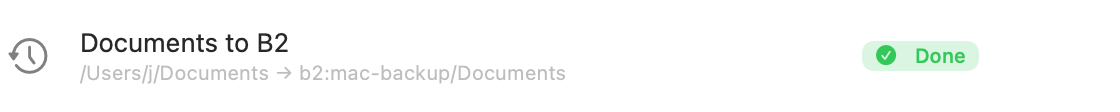
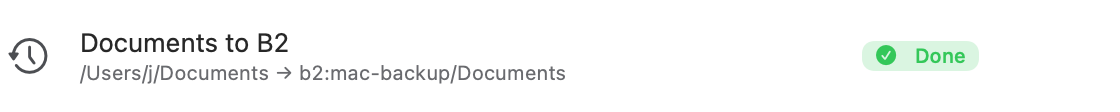
fix: readable text everywhere, a readable Settings tab bar, and main's CI (#133)
* fix: use the theme's text colours everywhere, not the system labels

The semantic text tokens were the system label colours, whose secondary
and tertiary levels (55% and 25% white in dark mode) are too faint on the
Stratosphere blue: 3.7:1 and 1.9:1. They now come from the palette (80%
and 72% white, and its dark tones in light mode), so every screen that
uses the tokens is readable: file lists, the inspector, transfer rows,
search results, status badges and the sheets.

* fix(settings): readable labels on buttons and menus

Buttons and menus in Settings drew their label in the app's tint, the
theme's action blue, on a blue surface: about 1.3:1. The Settings window
now tints them with the text colour. Switches keep the blue through a
settingsSwitch() helper, since a text-coloured tint would turn them
white on white.

* feat(settings): the app's own tab bar in the Settings window

The system Settings toolbar drew the selected tab's icon and label in
the accent blue on a blue highlight and took no tint. Settings now uses
the same glass segmented control as a cloud's page, and its background
runs behind the title bar instead of leaving a grey strip.

* test(settings): pin the sign-ins state in the Advanced snapshots

Five Settings-Advanced snapshot tests read this Mac's rclone config for
the saved sign-ins section, so they rendered differently on a CI runner
without one. The difference sat inside the tolerance until that text got
[…]

Changed region(s): [[0.0, 0.5625, 0.5, 0.75], [0.0, 0.3482, 0.0625, 0.5625]]

diff --git a/Nimbus/NimbusTests/AdvancedSettingsViewTests.swift b/Nimbus/NimbusTests/AdvancedSettingsViewTests.swift
@@ -16,11 +16,14 @@ struct AdvancedSettingsViewTests {
         )
 
         try SnapshotHelpers.assertHostedSnapshot(
-            AdvancedSettingsView(storageModel: GeneralSettingsModel(cacheUsage: .available(4_194_304)))
+            AdvancedSettingsView(
+                storageModel: GeneralSettingsModel(cacheUsage: .available(4_194_304)),
+                encryptionModel: Self.fixedSignIns
+            )
                 .environment(settings)
                 .environment(daemon)
                 .environment(\.diagnosticsService, diagnosticsService),
-            size: CGSize(width: 680, height: 820),
+            size: Self.fullHeight,
             named: "Settings-Advanced-connected"
         )
     }
@@ -35,12 +38,15 @@ struct AdvancedSettingsViewTests {
         )
 
         try SnapshotHelpers.assertHostedSnapshot(
-            AdvancedSettingsView(storageModel: GeneralSettingsModel(
-                cacheUsage: .failed("Nimbus couldn't read its Finder change records.")))
+            AdvancedSettingsView(
+                storageModel: GeneralSettingsModel(
+                    cacheUsage: .failed("Nimbus couldn't read its Finder change records.")),
+                encryptionModel: Self.fixedSignIns
+            )
                 .environment(settings)
                 .environment(daemon)
                 .environment(\.diagnosticsService, diagnosticsService),
-            size: CGSize(width: 680, height: 820),
+            size: Self.fullHeight,
             named: "Settings-Advanced-records-error"
         )
     }
@@ -55,11 +61,14 @@ struct AdvancedSettingsViewTests {
         )
 
         try SnapshotHelpers.assertHostedSnapshot(
-            AdvancedSettingsView(storageModel: GeneralSettingsModel(cacheUsage: .available(4_194_304)))
+            AdvancedSettingsView(
+                storageModel: GeneralSettingsModel(cacheUsage: .available(4_194_304)),
+                encryptionModel: Self.fixedSignIns
+            )
                 .environment(settings)
                 .environment(daemon)
                 .environment(\.diagnosticsService, diagnosticsService),
-            size: CGSize(width: 680, height: 820),
+            size: Self.fullHeight,
             named: "Settings-Advanced-restart-required"
         )
     }
@@ -74,11 +83,14 @@ struct AdvancedSettingsViewTests {
         )
 
         try SnapshotHelpers.assertHostedSnapshot(
-            AdvancedSettingsView(storageModel: GeneralSettingsModel(cacheUsage: .available(4_194_304)))
+            AdvancedSettingsView(
+                storageModel: GeneralSettingsModel(cacheUsage: .available(4_194_304)),
+                encryptionModel: Self.fixedSignIns
+            )
                 .environment(settings)
                 .environment(daemon)
                 .environment(\.diagnosticsService, diagnosticsService),
-            size: CGSize(width: 680, height: 820),
+            size: Self.fullHeight,
             named: "Settings-Advanced-disconnected"
         )
     }
@@ -93,11 +105,14 @@ struct AdvancedSettingsViewTests {
         )
 
         try SnapshotHelpers.assertHostedSnapshot(
-            AdvancedSettingsView(storageModel: GeneralSettingsModel(cacheUsage: .available(4_194_304)))
+            AdvancedSettingsView(
+                storageModel: GeneralSettingsModel(cacheUsage: .available(4_194_304)),
+                encryptionModel: Self.fixedSignIns
+            )
                 .environment(settings)
                 .environment(daemon)
                 .environment(\.diagnosticsService, diagnosticsService),
-            size: CGSize(width: 680, height: 820),
+            size: Self.fullHeight,
             named: "Settings-Advanced-error"
         )
     }
@@ -127,6 +142,21 @@ struct AdvancedSettingsViewTests {
             size: CGSize(width: 680, height: 1100),
             named: name
         )
+    }
+
+    /// Tall enough that the whole pane fits. When it doesn't, the pane
+    /// scrolls, and a Mac set to always show scroll bars (a CI runner has
+    /// no trackpad) draws one and re-wraps the text beside it, while a Mac
+    /// with overlay scroll bars doesn't. 820 fit until the descriptions
+    /// went from 10pt to 12pt.
+    private static let fullHeight = CGSize(width: 680, height: 1100)
+
+    /// The saved sign-ins section reads this Mac's rclone config unless it
+    /// is told not to. These snapshots aren't about that section, so pin
+    /// it: otherwise the render differs between a Mac with a config and a
+    /// CI runner without one.
+    private static var fixedSignIns: ConfigEncryptionModel {
+        ConfigEncryptionModel(state: .plain, readsLiveState: false)
     }
 
     private var diagnosticsService: DiagnosticsService {

diff --git a/Nimbus/Nimbus/Views/Settings/SettingsView.swift b/Nimbus/Nimbus/Views/Settings/SettingsView.swift
@@ -40,36 +40,67 @@ struct SettingsView: View {
         self.storageModel = storageModel
     }
 
+    /// The tabs on offer: Storage only when there is a model for it.
+    var tabs: [SettingsTab] {
+        SettingsTab.allCases.filter { $0 != .storage || storageModel != nil }
+    }
+
     var body: some View {
-        TabView(selection: $selectedTab) {
-            GeneralSettingsView()
-                .tag(SettingsTab.general)
-                .tabItem { Label(SettingsTab.general.title, systemImage: SettingsTab.general.systemImage) }
+        VStack(spacing: 0) {
+            // The app's own segmented control, not the system's Settings
+            // toolbar: that one draws the selected tab in the accent blue
+            // on a blue highlight, and takes no tint.
+            GlassSegmented(
+                options: tabs.map { .init(value: $0, title: $0.title, systemImage: $0.systemImage) },
+                selection: $selectedTab
+            )
+            .accessibilityElement(children: .contain)
+            .accessibilityLabel("Settings sections")
+            .padding(.top, DesignSystem.Spacing.s)
+            .padding(.bottom, DesignSystem.Spacing.m)
 
-            TransferSettingsView()
-                .tag(SettingsTab.transfers)
-                .tabItem { Label(SettingsTab.transfers.title, systemImage: SettingsTab.transfers.systemImage) }
-
-            if let storageModel {
-                StorageSettingsView(model: storageModel)
-                    .tag(SettingsTab.storage)
-                    .tabItem { Label(SettingsTab.storage.title, systemImage: SettingsTab.storage.systemImage) }
-            }
-
-            AdvancedSettingsView(storageModel: generalModel)
-                .tag(SettingsTab.advanced)
-                .tabItem { Label(SettingsTab.advanced.title, systemImage: SettingsTab.advanced.systemImage) }
-
-            AboutSettingsView()
-                .tag(SettingsTab.about)
-                .tabItem { Label(SettingsTab.about.title, systemImage: SettingsTab.about.systemImage) }
+            pane
+                .frame(maxWidth: .infinity, maxHeight: .infinity)
         }
+        .navigationTitle("Settings")
         .accessibilityIdentifier("settings-shell")
         .frame(width: 680, height: 520)
+        // Buttons and menus draw their label in the tint. The app's tint is
+        // the theme's blue, which on this blue surface is about 1.3:1; the
+        // text colour reads. Switches keep the blue (`settingsSwitch`).
+        .tint(palette.textPrimary.color)
         // The same opaque surface as a sheet, so form groups match and
         // nothing here depends on what is behind the window.
         .environment(\.isOnStratosphereSheet, true)
-        .background(LinearGradient(colors: [palette.sheetTop.color, palette.sheetBottom.color],
-                                   startPoint: .top, endPoint: .bottom))
+        // Behind the title bar too, so it isn't a grey strip above the blue.
+        .containerBackground(for: .window) {
+            LinearGradient(colors: [palette.sheetTop.color, palette.sheetBottom.color],
+                           startPoint: .top, endPoint: .bottom)
+        }
+        .toolbarBackground(.hidden, for: .windowToolbar)
+    }
+}
+
+extension SettingsView {
+    @ViewBuilder
+    fileprivate var pane: some View {
+        switch selectedTab {
+        case .general: GeneralSettingsView()
+        case .transfers: TransferSettingsView()
+        case .storage:
+            if let storageModel { StorageSettingsView(model: storageModel) }
+        case .advanced: AdvancedSettingsView(storageModel: generalModel)
+        case .about: AboutSettingsView()
+        }
+    }
+}
+
+extension View {
+    /// A Settings switch: the system switch in the theme's action blue,
+    /// which the Settings window's text-coloured tint would otherwise wash
+    /// out to white on white.
+    func settingsSwitch() -> some View {
+        toggleStyle(.switch)
+            .tint(DesignSystem.Stratosphere.Palette.dark.actionTop.color)
     }
 }

diff --git a/Nimbus/Nimbus/Views/Settings/GeneralSettingsView.swift b/Nimbus/Nimbus/Views/Settings/GeneralSettingsView.swift
@@ -32,7 +32,7 @@ private struct ApplicationSettingsSection: View {
             VStack(alignment: .leading, spacing: DesignSystem.Spacing.xs) {
                 FormRow(label: "Open at Login", help: nil) {
                     Toggle("", isOn: launchAtLoginBinding)
-                        .toggleStyle(.switch)
+                        .settingsSwitch()
                         .labelsHidden()
                         .accessibilityLabel("Open at Login")
                 }
@@ -46,7 +46,7 @@ private struct ApplicationSettingsSection: View {
             RunBackupsWhenClosedRow()
             FormRow(label: "Show in Dock", help: "When this is off, Nimbus lives in the menu bar only.") {
                 Toggle("", isOn: $settings.showsDockIcon)
-                    .toggleStyle(.switch)
+                    .settingsSwitch()
                     .labelsHidden()
                     .accessibilityLabel("Show in Dock")
             }
@@ -90,7 +90,7 @@ private struct RunBackupsWhenClosedRow: View {
             FormRow(label: LocalizedStringKey(OpenAtLoginNote.runsWhenClosedLabel),
                     help: "Every 15 minutes, if Nimbus is closed, it opens in the background, runs any backups that are due, then quits.") {
                 Toggle("", isOn: backgroundBackups.enabledBinding)
-                    .toggleStyle(.switch)
+                    .settingsSwitch()
                     .labelsHidden()
                     .accessibilityLabel(OpenAtLoginNote.runsWhenClosedLabel)
             }
@@ -141,7 +141,7 @@ private struct ConnectionSection: View {
             FormRow(label: "Open Nimbus when a drive is used in Finder",
                     help: "If Nimbus isn't running, it opens in the menu bar so your Finder drives work.") {
                 Toggle("", isOn: $settings.opensAppFromFinder)
-                    .toggleStyle(.switch)
+                    .settingsSwitch()
                     .labelsHidden()
                     .accessibilityLabel("Open Nimbus when a drive is used in Finder")
             }
@@ -165,7 +165,7 @@ private struct NewCloudsSection: View {
         ) {
             FormRow(label: "Show new clouds in Finder", help: nil) {
                 Toggle("", isOn: $settings.addNewRemotesToFinder)
-                    .toggleStyle(.switch)
+                    .settingsSwitch()
                     .labelsHidden()
                     .accessibilityLabel("Show new clouds in Finder")
             }
@@ -191,7 +191,7 @@ private struct UpdatesSection: View {
                         get: { updater.automaticallyChecks },
                         set: { updater.setAutomaticallyChecks($0) }
                     ))
-                    .toggleStyle(.switch)
+                    .settingsSwitch()
                     .labelsHidden()
                     .disabled(!updater.isAvailable)
                     .accessibilityLabel("Check for updates automatically")

diff --git a/Nimbus/Nimbus/DesignSystem/Tokens/Colors.swift b/Nimbus/Nimbus/DesignSystem/Tokens/Colors.swift
@@ -1,3 +1,4 @@
+import AppKit
 import SwiftUI
 
 extension DesignSystem {
@@ -9,14 +10,32 @@ extension DesignSystem {
             public static let surfaceElevated = SwiftUI.Color(nsColor: .underPageBackgroundColor)
             public static let selection       = SwiftUI.Color(nsColor: .selectedContentBackgroundColor)
             public static let separator       = SwiftUI.Color(nsColor: .separatorColor)
-            public static let textPrimary     = SwiftUI.Color(nsColor: .labelColor)
-            public static let textSecondary   = SwiftUI.Color(nsColor: .secondaryLabelColor)
-            public static let textTertiary    = SwiftUI.Color(nsColor: .tertiaryLabelColor)
+            // Text is the Stratosphere palette's, not the system labels'.
+            // Every surface in the app is the theme's blue (or its light
+            // counterpart), and the system's secondary and tertiary labels
+            // (55% and 25% white in dark mode, tuned for a near-black
+            // window) measure 3.7:1 and 1.9:1 on it. Small text needs
+            // 4.5:1; the palette's 80% and 72% give 5.9:1 and 5.1:1.
+            public static let textPrimary     = themed { $0.textPrimary }
+            public static let textSecondary   = themed { $0.textSecondary }
+            public static let textTertiary    = themed { $0.textTertiary }
             public static let statusOK        = SwiftUI.Color(nsColor: .systemGreen)
             public static let statusWarning   = SwiftUI.Color(nsColor: .systemOrange)
             public static let statusError     = SwiftUI.Color(nsColor: .systemRed)
             public static let statusInfo      = SwiftUI.Color(nsColor: .systemBlue)
             public static let statusMuted     = SwiftUI.Color(nsColor: .systemGray)
+
+            /// A colour that follows the appearance of whatever draws it,
+            /// taking its value from the Stratosphere palette.
+            private static func themed(
+                _ pick: @escaping @Sendable (DesignSystem.Stratosphere.Palette) -> DesignSystem.Stratosphere.RGBA
+            ) -> SwiftUI.Color {
+                SwiftUI.Color(nsColor: NSColor(name: nil) { appearance in
+                    let isDark = appearance.bestMatch(from: [.darkAqua, .aqua]) == .darkAqua
+                    let tone = pick(isDark ? .dark : .light)
+                    return NSColor(srgbRed: tone.r, green: tone.g, blue: tone.b, alpha: tone.a)
+                })
+            }
         }
     }
 }

diff --git a/Nimbus/Nimbus/Views/Browser/BrowserView.swift b/Nimbus/Nimbus/Views/Browser/BrowserView.swift
@@ -279,7 +279,7 @@ struct BrowserView: View {
                     if index > 0 {
                         Image(systemName: "chevron.right")
                             .font(DesignSystem.Typography.caption)
-                            .foregroundStyle(.secondary)
+                            .foregroundStyle(DesignSystem.Color.semantic.textSecondary)
                     }
                     Button {
                         Task { await viewModel.navigateTo(path: component.path) }
@@ -294,7 +294,8 @@ struct BrowserView: View {
                     .font(index == viewModel.pathComponents.count - 1
                           ? DesignSystem.Typography.bodyEmphasized
                           : DesignSystem.Typography.body)
-                    .foregroundStyle(index == viewModel.pathComponents.count - 1 ? .primary : .secondary)
+                    .foregroundStyle(index == viewModel.pathComponents.count - 1
+                                     ? DesignSystem.Color.semantic.textPrimary : DesignSystem.Color.semantic.textSecondary)
                 }
             }
             .padding(.horizontal, DesignSystem.Spacing.l)

diff --git a/Nimbus/Nimbus/Views/Settings/AdvancedSettingsView.swift b/Nimbus/Nimbus/Views/Settings/AdvancedSettingsView.swift
@@ -357,7 +357,7 @@ private struct SavedSignInsSection: View {
                         get: { model.isLocked },
                         set: { setLocked($0) }
                     ))
-                    .toggleStyle(.switch)
+                    .settingsSwitch()
                     .labelsHidden()
                     .disabled(model.state == nil || model.activity != .idle || blockReason != nil)
                     .accessibilityLabel("Lock saved sign-ins with Keychain")
@@ -445,7 +445,7 @@ private struct NetworkDriveDefaultsSection: View {
             }
             FormRow(label: "Connect new network drives at login", help: nil) {
                 Toggle("", isOn: $settings.newMountAutoMount)
-                    .toggleStyle(.switch)
+                    .settingsSwitch()
                     .labelsHidden()
                     .accessibilityLabel("Connect new network drives at login")
             }

diff --git a/Nimbus/Nimbus/Views/Sidebar.swift b/Nimbus/Nimbus/Views/Sidebar.swift
@@ -35,7 +35,7 @@ struct Sidebar: View {
                                 Text(bookmark.label)
                                 Text("\(bookmark.remoteName):\(bookmark.path)")
                                     .font(.caption)
-                                    .foregroundStyle(.secondary)
+                                    .foregroundStyle(DesignSystem.Color.semantic.textSecondary)
                             }
                         } icon: {
                             Image(systemName: "folder.badge.star")

diff --git a/Nimbus/NimbusTests/SettingsViewTests.swift b/Nimbus/NimbusTests/SettingsViewTests.swift
@@ -10,6 +10,10 @@ struct SettingsViewTests {
         #expect(SettingsTab.allCases == [.general, .transfers, .storage, .advanced, .about])
     }
 
+    @Test func storageTabIsOfferedOnlyWithAStorageModel() {
+        #expect(SettingsView().tabs == [.general, .transfers, .advanced, .about])
+    }
+
     @Test func sceneRootAppliesLightAppearanceFromSettings() {
         let settings = settings()
         settings.appearance = .light
